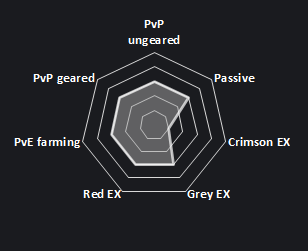
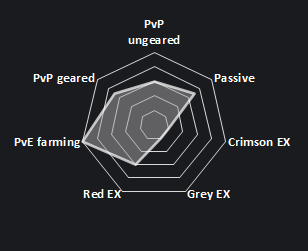
charts for roxy shin

Changed region(s): [[0.263, 0.3068, 0.6429, 0.6693], [0.5552, 0.4462, 0.5844, 0.502]]

diff --git a/characters/roxy/1.html b/characters/roxy/1.html
@@ -93,13 +93,13 @@
 						</div>
 					</div>
 				</div>
-				<!-- /.Basic Info
+				<!-- /.Basic Info -->
 				<h2 class="whitetext">Unit Rating</h2>
 				<div class="list-group">
 					<div style="justify-content: center; display: flex;">
 						<img src="../../images/char_analysis/roxy_ssrr_rating.png">
 					</div>
-				</div> -->
+				</div>
 				<!-- Stats -->
 				<button class="btn btn-primary visible-sm" type="button" data-toggle="collapse" data-target="#collapsestats" style="background-color: transparent; border-color: transparent; padding: 0; display: none;"><h2 class="whitetext">Stats <span style="font-size: 0.8rem">(click to show)</span></h2></button>
 				<h2 class="whitetext hidden-stats">Stats</h2>

diff --git a/characters/shin/1.html b/characters/shin/1.html
@@ -93,13 +93,13 @@
 						</div>
 					</div>
 				</div>
-				<!-- /.Basic Info
+				<!-- /.Basic Info -->
 				<h2 class="whitetext">Unit Rating</h2>
 				<div class="list-group">
 					<div style="justify-content: center; display: flex;">
 						<img src="../../images/char_analysis/shin_ssrg_rating.png">
 					</div>
-				</div> -->
+				</div>
 				<!-- Stats -->
 				<button class="btn btn-primary visible-sm" type="button" data-toggle="collapse" data-target="#collapsestats" style="background-color: transparent; border-color: transparent; padding: 0; display: none;"><h2 class="whitetext">Stats <span style="font-size: 0.8rem">(click to show)</span></h2></button>
 				<h2 class="whitetext hidden-stats">Stats</h2>
